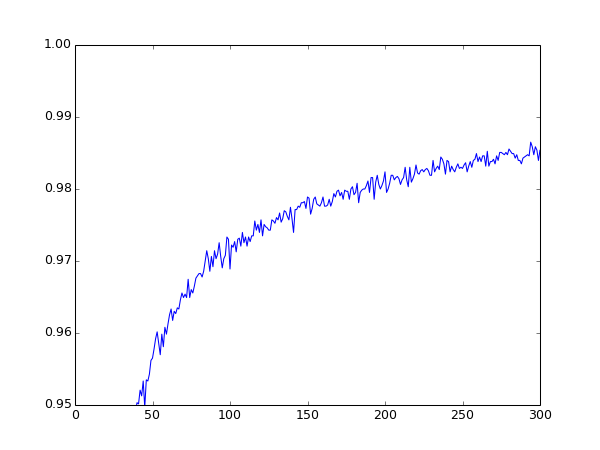
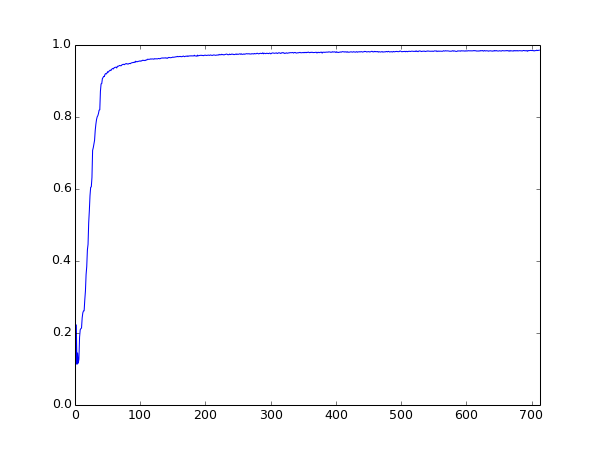
tensorflow convolutional neural network: 0.98543

diff --git a/tf/tf_deep_cnn.py b/tf/tf_deep_cnn.py
@@ -186,8 +186,8 @@ for epoch in xrange(TRAINING_STEPS):
 
 # plot validation accuracy, and adjust params
 fig = plt.figure()
-plt.ylim(bottom=0.95, top=1)
-plt.xlim(0, 300)
+plt.ylim(bottom=0, top=1)
+plt.xlim(0, len(accuracy_history))
 plt.plot(accuracy_history)
 fig.savefig('accuracy_history.png', dpi=75)
 
